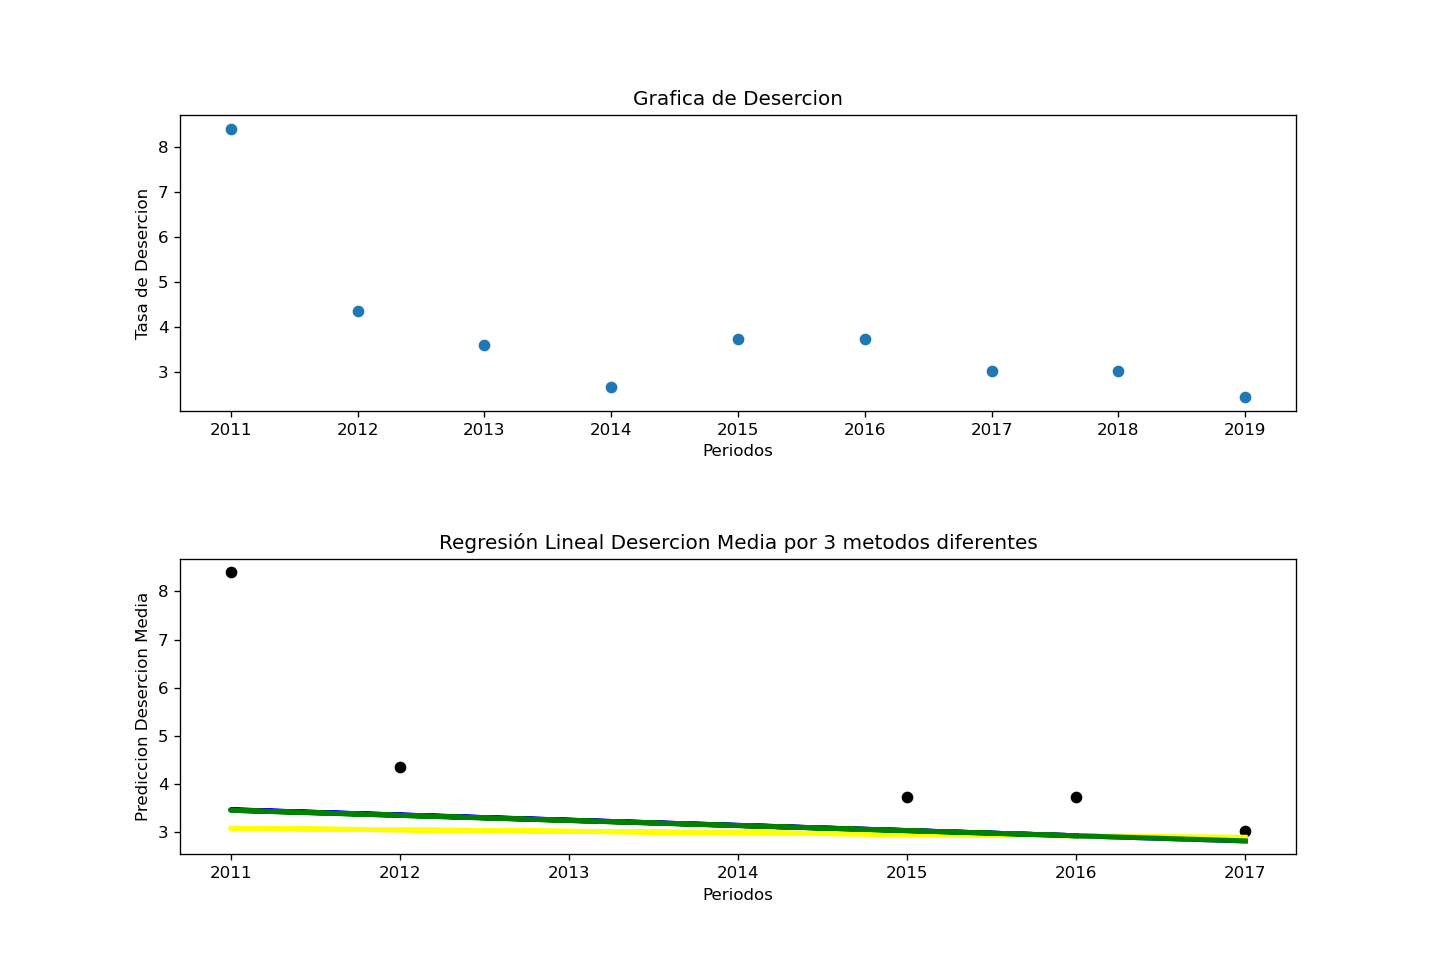
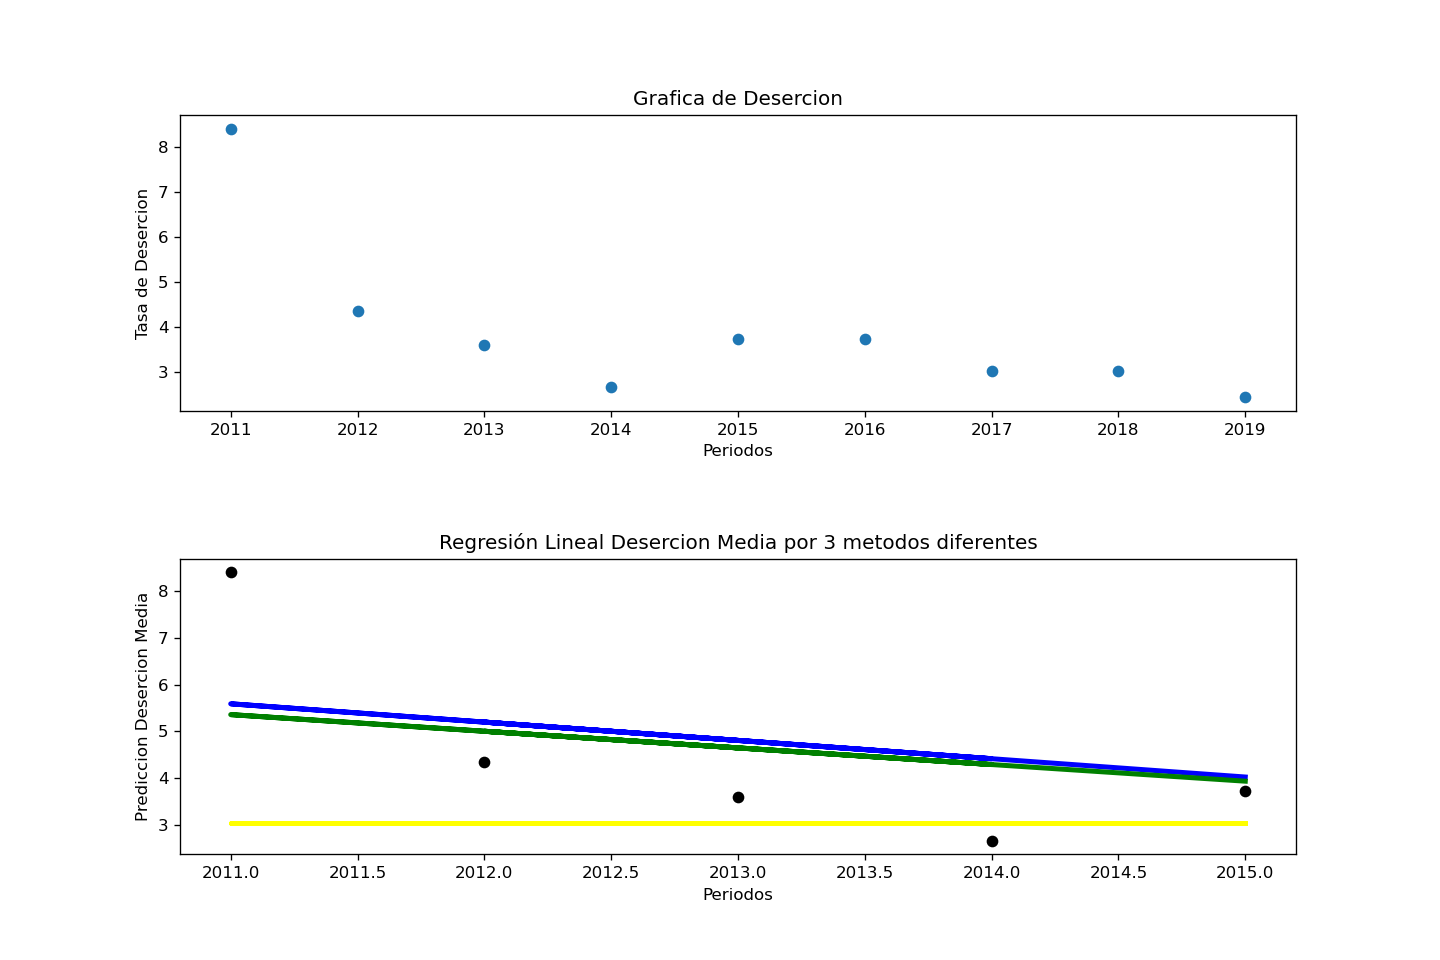
updated

diff --git a/src/templates/P_Repitencia.html b/src/templates/P_Repitencia.html
@@ -5,7 +5,39 @@
     <h2>Grafica de Repitencia</h2>
     <img src="{{ url_for('static', filename='file/proyeccion_repitencia_2.png') }}" class="img-fluid" WIDTH="1200" HEIGHT="780" title="Grafica de Proyeccion de Repitencia">
     <a href="/run4" class="btn btn-primary" style="text-align: center;">proyeccion de repitencia</a>
+    <div class="container p-4">
+        <h1 style="text-align: center;">DATOS DEL MODELO DE REPROBACION</h1>
+        <div class="row">
+            <div class="col-xs-12 col-sm-4">
+                <h2>Regresión Lineal</h2>
+                <br>
+                <h3>Coeficiente : {{m_coe}}</h3>
+                <br>
+                <h3>Suma de Residuos al Cuadrado : {{m_mse}}</h3>
+                <br>
+                <h3>Varianza Explicada : {{m_ve}}</h3>
+            </div>
+            <div class="col-xs-12 col-sm-4">
+                <h2>Regresión Lasso</h2>
+                <br>
+                <h3>Coeficiente : {{l_coe}}</h3>
+                <br>
+                <h3>Suma de Residuos al Cuadrado : {{l_mse}}</h3>
+                <br>
+                <h3>Varianza Explicada : {{l_ve}}</h3>
+            </div>
+            <div class="col-xs-12 col-sm-4">
+                <h2>Regresión Ridge</h2>
+                <br>
+                <h3>Coeficiente : {{r_coe}}</h3>
+                <br>
+                <h3>Suma de Residuos al Cuadrado : {{r_mse}}</h3>
+                <br>
+                <h3>Varianza Explicada : {{r_ve}}</h3>
+            </div>
+        </div>
 
+    </div>
 </div>
 
 {% endblock %}

diff --git a/src/templates/P_Desercion.html b/src/templates/P_Desercion.html
@@ -4,7 +4,38 @@
     <h2>Grafica de Desercion</h2>
     <img src="{{ url_for('static', filename='file/proyeccion_desercion_2.png') }}" class="img-fluid" WIDTH="1200" HEIGHT="780" title="Grafica de Proyeccion de Desercion">
     <a href="/run3" class="btn btn-primary" style="text-align: center;">proyeccion de desercion</a>
-
+    <div class="container p-4">
+        <h1 style="text-align: center;">DATOS DEL MODELO DE REPROBACION</h1>
+        <div class="row">
+            <div class="col-xs-12 col-sm-4">
+                <h2>Regresión Lineal</h2>
+                <br>
+                <h3>Coeficiente : {{m_coe}}</h3>
+                <br>
+                <h3>Suma de Residuos al Cuadrado : {{m_mse}}</h3>
+                <br>
+                <h3>Varianza Explicada : {{m_ve}}</h3>
+            </div>
+            <div class="col-xs-12 col-sm-4">
+                <h2>Regresión Lasso</h2>
+                <br>
+                <h3>Coeficiente : {{l_coe}}</h3>
+                <br>
+                <h3>Suma de Residuos al Cuadrado : {{l_mse}}</h3>
+                <br>
+                <h3>Varianza Explicada : {{l_ve}}</h3>
+            </div>
+            <div class="col-xs-12 col-sm-4">
+                <h2>Regresión Ridge</h2>
+                <br>
+                <h3>Coeficiente : {{r_coe}}</h3>
+                <br>
+                <h3>Suma de Residuos al Cuadrado : {{r_mse}}</h3>
+                <br>
+                <h3>Varianza Explicada : {{r_ve}}</h3>
+            </div>
+        </div>
+    </div>
 </div>
 
 {% endblock %}

diff --git a/src/templates/P_Reprobacion.html b/src/templates/P_Reprobacion.html
@@ -42,6 +42,6 @@
 
 </div>
 
-</body>
+
 
 {% endblock %}

diff --git a/src/Proyecciones.py b/src/Proyecciones.py
@@ -145,26 +145,35 @@ def proyeccion_desercion():
     print('DATOS DEL MODELO DE DESERCION')
     print ('Regresión Mínimos Cuadrados Ordinarios')
     # Coeficiente
+    m_coe = lr2.coef_
     print('Coeficientes:',lr2.coef_)
     # MSE
+    m_mse = "{0:.4f}".format(np.mean((y_pred2 - y_test2) ** 2))
     print("Residual sum of squares: %.2f"% np.mean((y_pred2 - y_test2) ** 2))
     # Varianza explicada
+    m_ve = "{0:.4f}".format(lr2.score(X_test2,y_test2))
     print('Varianza explicada: %.2f\n' % lr2.score(X_test2,y_test2))
 
     print('Regresión Lasso') 
     # Coeficiente
+    l_coe = rgl2.coef_
     print('Coeficientes:', rgl2.coef_)
     # MSE
+    l_mse = "{0:.4f}".format(np.mean((y_predrgl2 - y_test2) ** 2))
     print("Residual sum of squares: %.2f"% np.mean((y_predrgl2 - y_test2) ** 2))
     # Varianza explicada
+    l_ve = "{0:.4f}".format(rgl2.score(X_test2, y_test2))
     print('Varianza explicada: %.2f\n' % rgl2.score(X_test2, y_test2))
 
     print('Regresión Ridge')
     #Coeficiente
+    r_coe = rgr2.coef_
     print('Coeficientes:', rgr2.coef_)
     # MSE
+    r_mse = "{0:.4f}".format(np.mean((y_predrgr2 - y_test2) ** 2))
     print("Residual sum of squares: %.2f"% np.mean((y_predrgr2 - y_test2) ** 2))
     # Varianza explicada
+    r_ve = "{0:.4f}".format(rgr2.score(X_test2,y_test2))
     print('Varianza explicada: %.2f\n' % rgr2.score(X_test2,y_test2))
 
     fig2 = plt.figure(figsize=(12,8), dpi=120)
@@ -187,6 +196,8 @@ def proyeccion_desercion():
     ax2.set_ylabel('Prediccion Desercion Media')
     fig2.savefig("static/file/proyeccion_desercion_2.png")
     # plt.show()
+    return m_coe,m_mse,m_ve,l_coe,l_mse,l_ve,r_coe,r_mse,r_ve
+
 
 def proyeccion_repitencia():
     datos=pd.read_csv('Datos/Datos_MEN.csv',header=0)
@@ -230,26 +241,35 @@ def proyeccion_repitencia():
     print('DATOS DEL MODELO DE REPITENCIA')
     print ('Regresión Mínimos Cuadrados Ordinarios')
     # Coeficiente
+    m_coe = lr3.coef_
     print('Coeficientes:',lr3.coef_)
     # MSE
+    m_mse = "{0:.4f}".format(np.mean((y_pred3 - y_test3) ** 2))
     print("Residual sum of squares: %.2f"% np.mean((y_pred3 - y_test3) ** 2))
     # Varianza explicada
+    m_ve = "{0:.4f}".format(lr3.score(X_test3,y_test3))
     print('Varianza explicada: %.2f\n' % lr3.score(X_test3,y_test3))
 
     print('Regresión Lasso') 
     # Coeficiente
+    l_coe =  rgl3.coef_
     print('Coeficientes:', rgl3.coef_)
     # MSE
+    l_mse = "{0:.4f}".format(np.mean((y_predrgl3 - y_test3) ** 2))
     print("Residual sum of squares: %.2f"% np.mean((y_predrgl3 - y_test3) ** 2))
     # Varianza explicada
+    l_ve = "{0:.4f}".format(rgl3.score(X_test3, y_test3))
     print('Varianza explicada: %.2f\n' % rgl3.score(X_test3, y_test3))
 
     print('Regresión Ridge')
     #Coeficiente
+    r_coe = rgr3.coef_
     print('Coeficientes:', rgr3.coef_)
     # MSE
+    r_mse = "{0:.4f}".format(np.mean((y_predrgr3 - y_test3) ** 2))
     print("Residual sum of squares: %.2f"% np.mean((y_predrgr3 - y_test3) ** 2))
     # Varianza explicada
+    r_ve = "{0:.4f}".format(rgr3.score(X_test3,y_test3))
     print('Varianza explicada: %.2f\n' % rgr3.score(X_test3,y_test3))
 
 
@@ -273,5 +293,6 @@ def proyeccion_repitencia():
     ax2.set_ylabel('Prediccion Repitencia Media')
     fig3.savefig("static/file/proyeccion_repitencia_2.png")
     # plt.show()
+    return m_coe,m_mse,m_ve,l_coe,l_mse,l_ve,r_coe,r_mse,r_ve
     
 

diff --git a/src/index.py b/src/index.py
@@ -58,14 +58,14 @@ def run_pro_reprobacion():
 @app.route("/run3", methods=['GET'])
 def run_pro_desercion():
     if request.method == 'GET':
-        pn.proyeccion_desercion()
-        return render_template('p_reales.html')
+        m_coe,m_mse,m_ve,l_coe,l_mse,l_ve,r_coe,r_mse,r_ve = pn.proyeccion_desercion()
+        return render_template('P_Desercion.html',m_coe=m_coe,m_mse=m_mse,m_ve=m_ve,l_coe=l_coe,l_mse=l_mse,l_ve=l_ve,r_coe=r_coe,r_mse=r_mse,r_ve=r_ve)
 
 @app.route("/run4", methods=['GET'])
 def run_pro_repitencia():
     if request.method == 'GET':
-        pn.proyeccion_repitencia()
-        return render_template('p_reales.html')
+        m_coe,m_mse,m_ve,l_coe,l_mse,l_ve,r_coe,r_mse,r_ve = pn.proyeccion_repitencia()
+        return render_template('P_Repitencia.html',m_coe=m_coe,m_mse=m_mse,m_ve=m_ve,l_coe=l_coe,l_mse=l_mse,l_ve=l_ve,r_coe=r_coe,r_mse=r_mse,r_ve=r_ve)
 
 
 if __name__ == "__main__":
